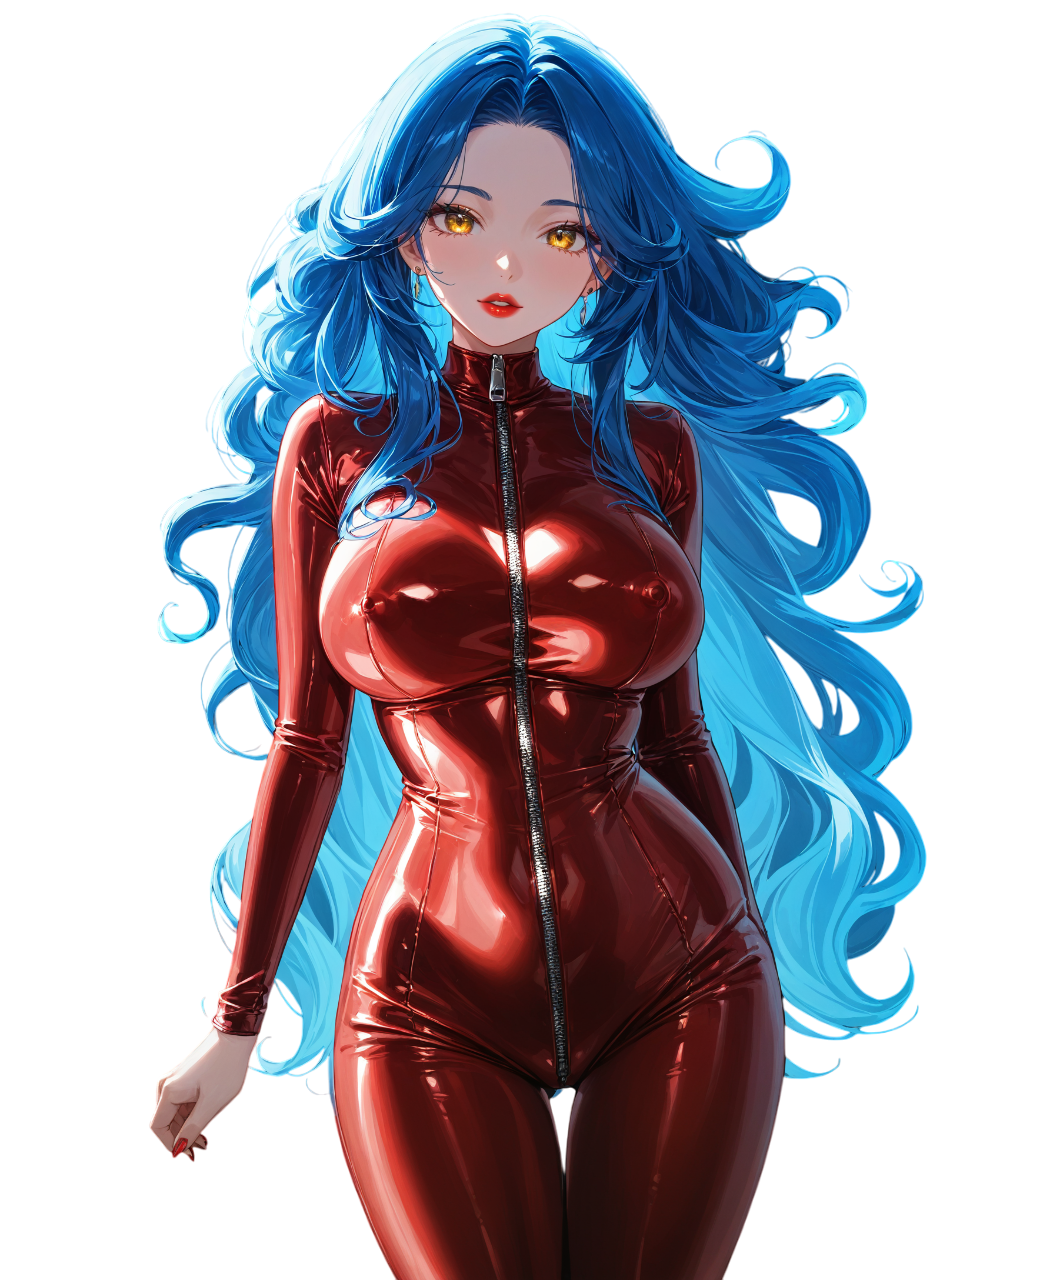
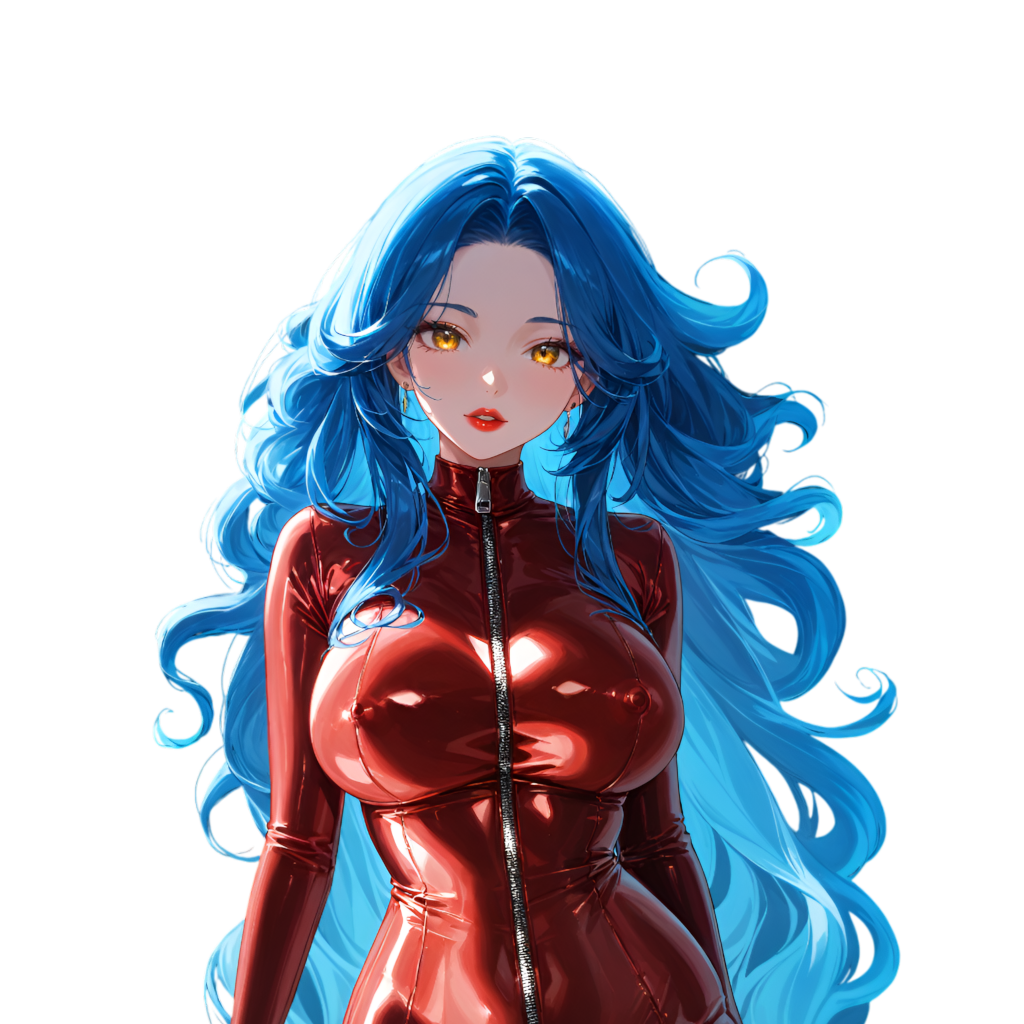
Update: Optimierte Charakterbilder für bessere Darstellung

diff --git a/index.html b/index.html
@@ -493,8 +493,16 @@
             height: 80px;
             border-radius: 50%;
             object-fit: cover;
+            object-position: center center;
             margin-bottom: 8px;
             border: 2px solid rgba(255, 255, 255, 0.2);
+        }
+
+        /* Spezifische Positionierung für Terra, Nova und Nyxari */
+        .character-card[data-character="Terra|Sage"] img,
+        .character-card[data-character="Nova|Nova"] img,
+        .character-card[data-character="Nyxari|Coral"] img {
+            object-position: center top;
         }
 
         .character-card .name {
@@ -563,7 +571,7 @@
                         <option value="2k">2K Upscaling</option>
                         <option value="4k">4K Upscaling</option>
                     </select>
-                    <button id="txt2mp4-btn" style="background-color: #4444ff;">TXT zu MP4</button>
+                    <button id="txt2mp4-btn" style="background-color: #4444ff;">txt2mp4</button>
                 </div>
 
             <div class="character-carousel">
